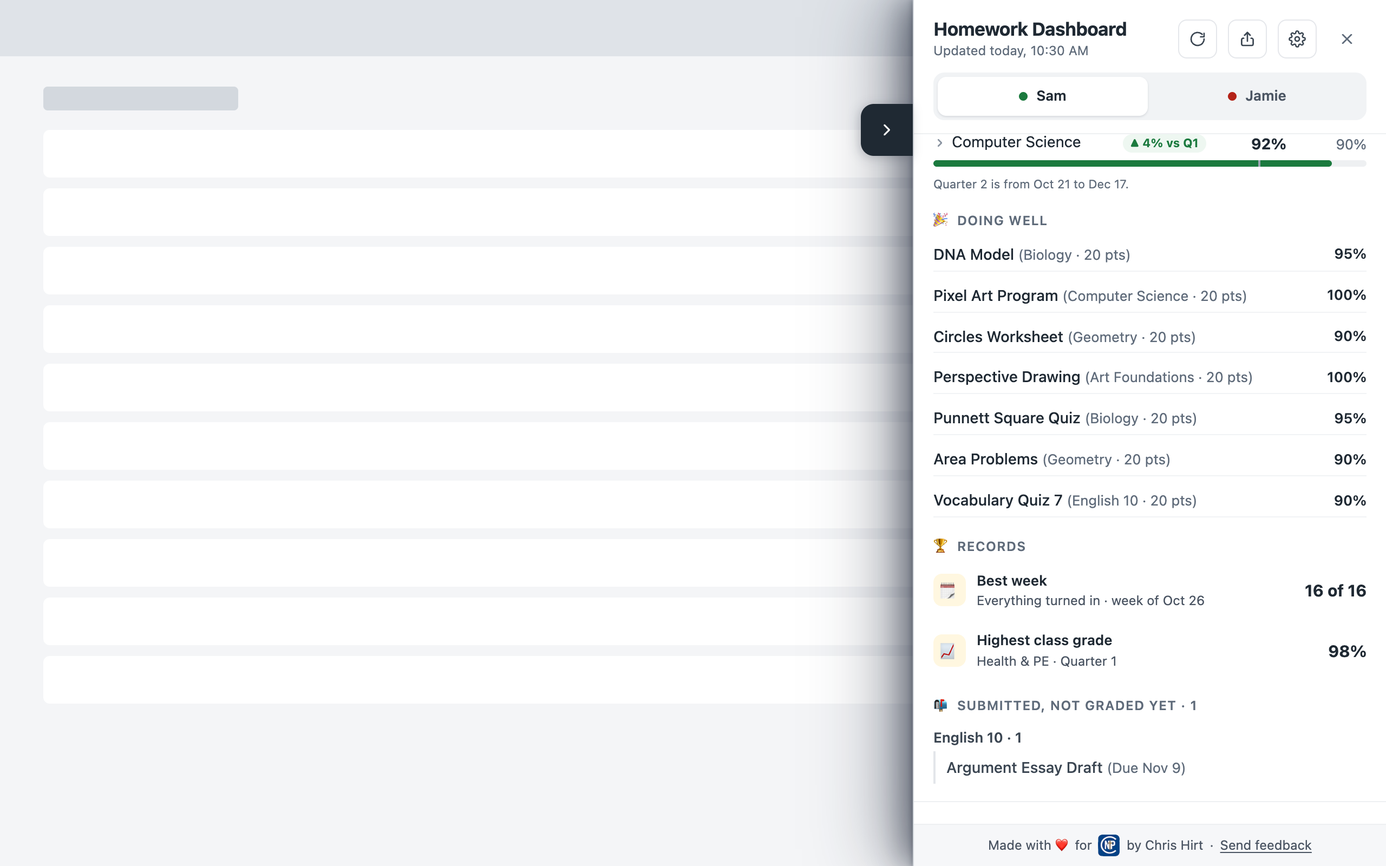
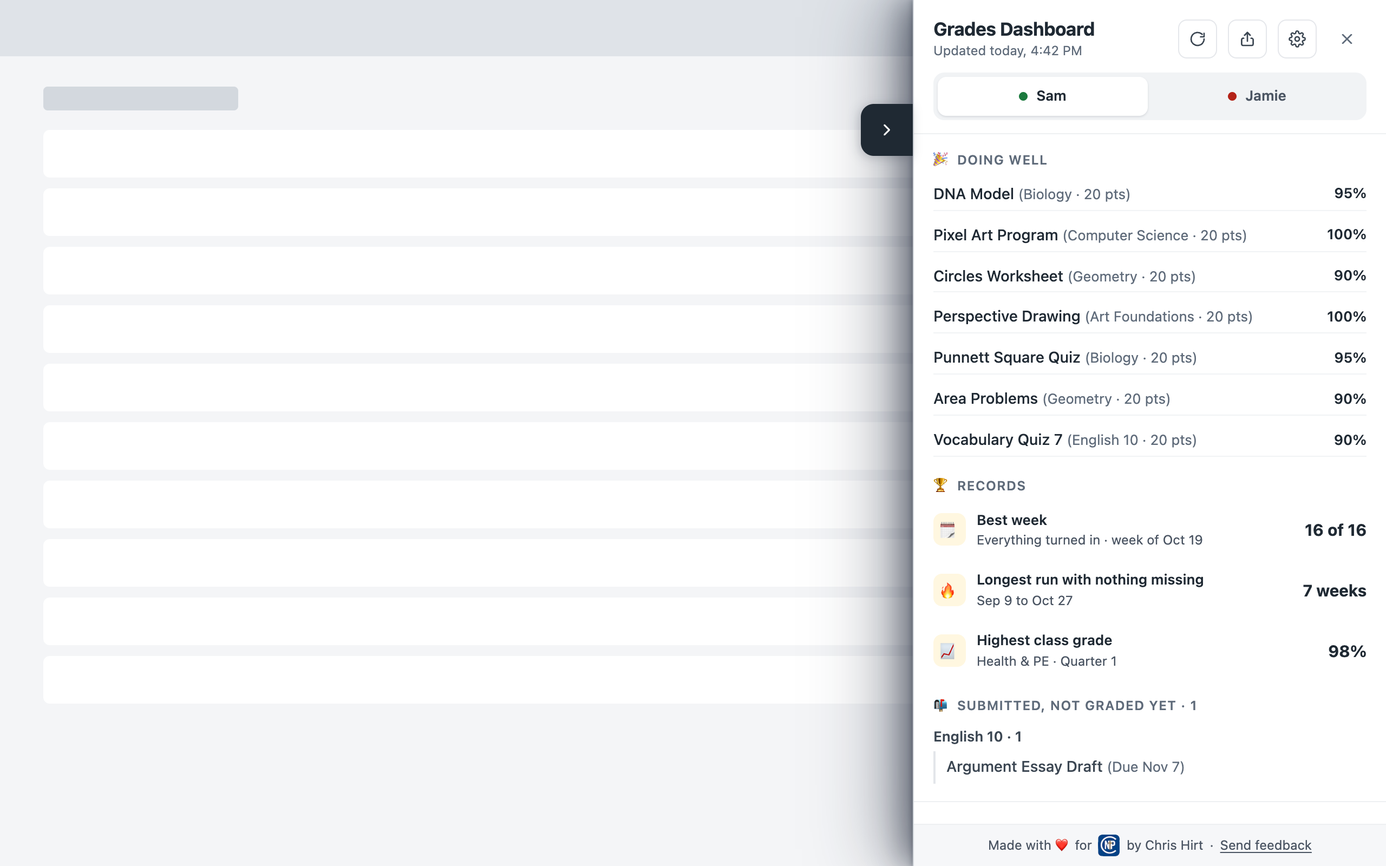
Name the product Grades Dashboard everywhere; pin the site screenshots' date (#77)
* Name the product Grades Dashboard everywhere

Extension: manifest name "Grades Dashboard for Schoology" with
short_name and toolbar title "Grades Dashboard"; the panel heading,
settings page, popup, share image title/filename, feedback subject,
aria labels and console messages say Grades Dashboard. The dev build is
"Grades Dashboard (Dev)". Site pages say Grades Dashboard (for
Schoology). Tests and docs follow.

* Pin the site screenshots to a fixed date; regenerate them as Grades Dashboard

- build.mjs: --fake-now=<date> (dev builds only) starts the extension's
  clock at that date.
- site-screenshots.mjs: builds with the clock pinned to SHOWCASE_NOW
  (Sun 2026-11-08 16:42 local, overridable), passes the same date to the
  showcase data and the daily log, and rebuilds a normal dev build after.
- It also seeds the daily log under the signed-in user's key and
  refreshes again. Since per-user storage (#71) the seeded log was
  ignored, so Records lost its longest-run entry.
- Screenshots regenerated: same content as before, now with the new name.
  The Records alt text drops 'highest score', which moved under each
  class's chart in #66.

---------

diff --git a/site/features.html b/site/features.html
@@ -3,10 +3,10 @@
 <head>
 <meta charset="utf-8">
 <meta name="viewport" content="width=device-width, initial-scale=1">
-<title>Features & research · Homework Dashboard</title>
-<meta name="description" content="Each feature of the Homework Dashboard for Schoology, the research behind it, and what it deliberately avoids.">
-<meta property="og:title" content="Features & research · Homework Dashboard">
-<meta property="og:description" content="Each feature of the Homework Dashboard for Schoology, the research behind it, and what it deliberately avoids.">
+<title>Features & research · Grades Dashboard</title>
+<meta name="description" content="Each feature of the Grades Dashboard for Schoology, the research behind it, and what it deliberately avoids.">
+<meta property="og:title" content="Features & research · Grades Dashboard">
+<meta property="og:description" content="Each feature of the Grades Dashboard for Schoology, the research behind it, and what it deliberately avoids.">
 <meta property="og:image" content="img/phone-parent-sam.png">
 <link rel="icon" href="img/icon.svg" type="image/svg+xml">
 <link rel="stylesheet" href="style.css">
@@ -14,7 +14,7 @@
 </head>
 <body>
 <header class="site-head"><div class="wrap">
-<a class="logo" href="index.html"><img class="mark" src="img/logo.svg" alt="" width="34" height="34">Homework Dashboard</a>
+<a class="logo" href="index.html"><img class="mark" src="img/logo.svg" alt="" width="34" height="34">Grades Dashboard</a>
 <nav class="nav" aria-label="Site"><a href="index.html">Home</a><a href="features.html" aria-current="page">Features & research</a><a href="teachers.html">For teachers</a></nav>
 </div></header>
 <main>
@@ -45,7 +45,7 @@
 <div><h2>Records: personal bests that only go up</h2><p>Highest score, best week, longest run with nothing missing, and highest class grade this school year. Records are saved, so a rough week never takes one away.</p>
 <div class="research"><strong>What the research says</strong><p>Personal-best goals, measured against your own past rather than other people, predict more engagement over time.<sup class="cite"><a href="research.html#r12">[12]</a></sup> Praise works when it's about effort and specific work, not about being smart.<sup class="cite"><a href="research.html#r13">[13]</a></sup></p></div>
 <div class="avoid"><strong>What we avoid, and why</strong><p>There are no points, coins, levels or leaderboards. Rewards tied to finishing tasks can crowd out students' own motivation, more so for children.<sup class="cite"><a href="research.html#r4">[4]</a>,<a href="research.html#r10">[10]</a></sup> In one semester-long study, a course with badges, a leaderboard and coins ended with <em>lower</em> motivation and exam scores.<sup class="cite"><a href="research.html#r14">[14]</a></sup> Dashboards that compare students with each other push competition over learning,<sup class="cite"><a href="research.html#r15">[15]</a></sup> so there's never a ranking, and never a side-by-side of siblings.</p></div></div>
-<div class="feature-media"><div class="panel-crop"><img src="img/records.png" alt="Records: highest score 100%, best week 16 of 16, 7 weeks with nothing missing, highest class grade 98%." loading="lazy" style="width:293%;max-width:none;margin-left:-193%"></div></div>
+<div class="feature-media"><div class="panel-crop"><img src="img/records.png" alt="Records: best week 16 of 16, 7 weeks with nothing missing, highest class grade 98%." loading="lazy" style="width:293%;max-width:none;margin-left:-193%"></div></div>
 </article><article class="feature" id="doing-well">
 <div><h2>Doing well</h2><p>Recent graded work above the family's “doing well” level, so there's always something specific to notice and praise.</p>
 <div class="research"><strong>What the research says</strong><p>Praising effort and specific work builds motivation; praising intelligence undermines it.<sup class="cite"><a href="research.html#r13">[13]</a></sup> Positive, informative feedback raised children's own interest in a task.<sup class="cite"><a href="research.html#r4">[4]</a></sup></p></div>
@@ -63,7 +63,7 @@
 </main>
 <footer class="site-foot"><div class="wrap">
 <div class="cols">
-<div><strong>Homework Dashboard for Schoology</strong><br>A free, open-source browser extension.
+<div><strong>Grades Dashboard for Schoology</strong><br>A free, open-source browser extension.
 <p class="credit">Made with <span role="img" aria-label="love">❤</span> for <img src="img/npc.png" alt="NPC" width="20" height="20"> by Chris Hirt, NPC dad of 3 · <a href="mailto:schoologydashboard@gmail.com?subject=Homework%20Dashboard%20feedback%20(website)">Send feedback</a></p></div>
 <div class="foot-right"><a href="research.html">Research &amp; sources</a> · <a href="privacy.html">Privacy</a> · <a href="schools.html">For schools</a> · <a data-link="source" href="https://github.com/megahirt/schoology-grades-extension">Source code</a>
 <div class="stores" aria-label="Get the extension">

diff --git a/site/index.html b/site/index.html
@@ -3,9 +3,9 @@
 <head>
 <meta charset="utf-8">
 <meta name="viewport" content="width=device-width, initial-scale=1">
-<title>Homework Dashboard for Schoology</title>
+<title>Grades Dashboard for Schoology</title>
 <meta name="description" content="A calm, research-based homework and grades dashboard for Schoology families: what's due, what's missing, and how grades are going.">
-<meta property="og:title" content="Homework Dashboard for Schoology">
+<meta property="og:title" content="Grades Dashboard for Schoology">
 <meta property="og:description" content="A calm, research-based homework and grades dashboard for Schoology families: what's due, what's missing, and how grades are going.">
 <meta property="og:image" content="img/phone-parent-sam.png">
 <link rel="icon" href="img/icon.svg" type="image/svg+xml">
@@ -14,21 +14,21 @@
 </head>
 <body>
 <header class="site-head"><div class="wrap">
-<a class="logo" href="index.html"><img class="mark" src="img/logo.svg" alt="" width="34" height="34">Homework Dashboard</a>
+<a class="logo" href="index.html"><img class="mark" src="img/logo.svg" alt="" width="34" height="34">Grades Dashboard</a>
 <nav class="nav" aria-label="Site"><a href="index.html" aria-current="page">Home</a><a href="features.html">Features & research</a><a href="teachers.html">For teachers</a></nav>
 </div></header>
 <main>
 
 <section class="hero"><div class="wrap">
 <div class="hero-text">
-<div class="eyebrow">Homework Dashboard for Schoology</div>
+<div class="eyebrow">Grades Dashboard for Schoology</div>
 <h1>What's due, what's missing, and how grades are going</h1>
 <p class="lede">A dashboard on top of Schoology for parents and students. It's built on research, and helps parents support students to take ownership of their work.</p>
 <div class="btn-row"><a id="get-it" class="btn primary">Get it</a><a class="btn secondary" href="features.html">See how it works</a></div>
 </div>
 <figure class="hero-shot">
 <div class="browser"><div class="browser-bar" aria-hidden="true"><i></i><i></i><i></i></div>
-<img src="img/desktop-hero.png" width="2880" height="1800" alt="A Schoology course grades page for Sam Rivera's Biology class, with the Homework Dashboard open on the right: 1 missing assignment, what's due today and tomorrow, and every class grade.">
+<img src="img/desktop-hero.png" width="2880" height="1800" alt="A Schoology course grades page for Sam Rivera's Biology class, with the Grades Dashboard open on the right: 1 missing assignment, what's due today and tomorrow, and every class grade.">
 </div>
 <figcaption>The dashboard opens right beside your Schoology pages.</figcaption>
 </figure>
@@ -72,7 +72,7 @@
 </main>
 <footer class="site-foot"><div class="wrap">
 <div class="cols">
-<div><strong>Homework Dashboard for Schoology</strong><br>A free, open-source browser extension.
+<div><strong>Grades Dashboard for Schoology</strong><br>A free, open-source browser extension.
 <p class="credit">Made with <span role="img" aria-label="love">❤</span> for <img src="img/npc.png" alt="NPC" width="20" height="20"> by Chris Hirt, NPC dad of 3 · <a href="mailto:schoologydashboard@gmail.com?subject=Homework%20Dashboard%20feedback%20(website)">Send feedback</a></p></div>
 <div class="foot-right"><a href="research.html">Research &amp; sources</a> · <a href="privacy.html">Privacy</a> · <a href="schools.html">For schools</a> · <a data-link="source" href="https://github.com/megahirt/schoology-grades-extension">Source code</a>
 <div class="stores" aria-label="Get the extension">

diff --git a/site/privacy.html b/site/privacy.html
@@ -3,10 +3,10 @@
 <head>
 <meta charset="utf-8">
 <meta name="viewport" content="width=device-width, initial-scale=1">
-<title>Privacy policy · Homework Dashboard</title>
-<meta name="description" content="Privacy policy for the Homework Dashboard for Schoology browser extension: it collects no data.">
-<meta property="og:title" content="Privacy policy · Homework Dashboard">
-<meta property="og:description" content="Privacy policy for the Homework Dashboard for Schoology browser extension: it collects no data.">
+<title>Privacy policy · Grades Dashboard</title>
+<meta name="description" content="Privacy policy for the Grades Dashboard for Schoology browser extension: it collects no data.">
+<meta property="og:title" content="Privacy policy · Grades Dashboard">
+<meta property="og:description" content="Privacy policy for the Grades Dashboard for Schoology browser extension: it collects no data.">
 <meta property="og:image" content="img/phone-parent-sam.png">
 <link rel="icon" href="img/icon.svg" type="image/svg+xml">
 <link rel="stylesheet" href="style.css">
@@ -14,14 +14,14 @@
 </head>
 <body>
 <header class="site-head"><div class="wrap">
-<a class="logo" href="index.html"><img class="mark" src="img/logo.svg" alt="" width="34" height="34">Homework Dashboard</a>
+<a class="logo" href="index.html"><img class="mark" src="img/logo.svg" alt="" width="34" height="34">Grades Dashboard</a>
 <nav class="nav" aria-label="Site"><a href="index.html">Home</a><a href="features.html">Features & research</a><a href="teachers.html">For teachers</a></nav>
 </div></header>
 <main>
 
 <section class="block"><div class="wrap" style="max-width:780px">
 <div class="eyebrow">Privacy policy</div><h1>Privacy policy</h1>
-<p class="muted">Homework Dashboard for Schoology (the browser extension) · Last updated November 8, 2026</p>
+<p class="muted">Grades Dashboard for Schoology (the browser extension) · Last updated November 8, 2026</p>
 <h2>The short version</h2>
 <p>The extension collects no data. Grades are read from Schoology in your browser and stay in your browser.</p>
 <h2>What the extension reads</h2>
@@ -43,7 +43,7 @@
 </main>
 <footer class="site-foot"><div class="wrap">
 <div class="cols">
-<div><strong>Homework Dashboard for Schoology</strong><br>A free, open-source browser extension.
+<div><strong>Grades Dashboard for Schoology</strong><br>A free, open-source browser extension.
 <p class="credit">Made with <span role="img" aria-label="love">❤</span> for <img src="img/npc.png" alt="NPC" width="20" height="20"> by Chris Hirt, NPC dad of 3 · <a href="mailto:schoologydashboard@gmail.com?subject=Homework%20Dashboard%20feedback%20(website)">Send feedback</a></p></div>
 <div class="foot-right"><a href="research.html">Research &amp; sources</a> · <a href="privacy.html">Privacy</a> · <a href="schools.html">For schools</a> · <a data-link="source" href="https://github.com/megahirt/schoology-grades-extension">Source code</a>
 <div class="stores" aria-label="Get the extension">

diff --git a/test/e2e/extension.spec.js b/test/e2e/extension.spec.js
@@ -1,4 +1,4 @@
-// extension.spec.js — Playwright e2e for the Schoology Dashboard extension.
+// extension.spec.js — Playwright e2e for the Grades Dashboard extension.
 //
 // Launches Chromium with the unpacked DEV build (dist/, produced by
 // `npm run build:dev`), starts the mock Schoology server, points the
@@ -66,7 +66,7 @@ test.afterAll(async () => {
   await mock.close();
 });
 
-test.describe('Schoology Dashboard extension (mock Schoology)', () => {
+test.describe('Grades Dashboard extension (mock Schoology)', () => {
   test.beforeEach(async () => {
     if (isFirefox()) test.skip(!HAS_FIREFOX_BUILD, 'Firefox DEV build (dist-firefox/) not present yet — run `npm run build:firefox` first.');
     else test.skip(!HAS_DEV_BUILD, 'DEV build (dist/) not present yet — run `npm run build:dev` first.');
@@ -244,7 +244,7 @@ test.describe('Schoology Dashboard extension (mock Schoology)', () => {
     await expect(popup.locator('.status')).toHaveText(/Press Share again to send it\.$/);
     await shareBtn.click();
     await expect(popup.locator('.status')).toHaveText(/shared\.$/);
-    expect(await popup.evaluate(() => window.__shared)).toEqual([[expect.stringMatching(/^homework-dashboard-jamie-\d{4}-\d{2}-\d{2}\.png image\/png$/)]]);
+    expect(await popup.evaluate(() => window.__shared)).toEqual([[expect.stringMatching(/^grades-dashboard-jamie-\d{4}-\d{2}-\d{2}\.png image\/png$/)]]);
   }
 
   async function openPopup(context, extensionId) {
@@ -430,7 +430,7 @@ test.describe('Schoology Dashboard extension (mock Schoology)', () => {
 
       const opts = await context.newPage();
       await opts.goto(`chrome-extension://${extensionId}/${OPTIONS_PAGE}`);
-      await expect(opts.getByRole('heading', { name: 'Homework Dashboard settings' })).toBeVisible();
+      await expect(opts.getByRole('heading', { name: 'Grades Dashboard settings' })).toBeVisible();
       await expect(opts.locator('#account-title')).toHaveText('Connected as a student');
       for (const name of ['Account', 'Display', 'Privacy & data']) {
         await expect(opts.getByRole('heading', { name, exact: true })).toBeVisible();
@@ -516,7 +516,7 @@ test.describe('Schoology Dashboard extension (mock Schoology)', () => {
       await expect(tab).toHaveAttribute('aria-expanded', 'false', { timeout: 15000 });
       await expect(panel).toBeHidden();
       // A student's closed tab shows the counts but no verdict (GO/NO-GO is for parents).
-      await expect(tab).toHaveAttribute('aria-label', /^Show homework dashboard\. Alex Student: 1 missing/);
+      await expect(tab).toHaveAttribute('aria-label', /^Show grades dashboard\. Alex Student: 1 missing/);
       await expect(tab).not.toHaveAttribute('aria-label', /NO-GO/);
       await expect(tab.locator('.kid-pic')).toHaveCount(1);
       await expect(tab.locator('.kid-m').first()).toHaveText('1'); // Schoology Missing icon + 1

diff --git a/extension/options/options.html b/extension/options/options.html
@@ -3,7 +3,7 @@
 <head>
 <meta charset="utf-8">
 <meta name="viewport" content="width=device-width, initial-scale=1">
-<title>Homework Dashboard settings</title>
+<title>Grades Dashboard settings</title>
 <link rel="stylesheet" href="options.css">
 </head>
 <body>
@@ -13,7 +13,7 @@
       <svg width="18" height="18" viewBox="0 0 24 24" fill="none" stroke="currentColor" stroke-width="2" stroke-linecap="round" stroke-linejoin="round"><circle cx="12" cy="12" r="3"/><path d="M19.4 15a1.65 1.65 0 0 0 .33 1.82l.06.06a2 2 0 1 1-2.83 2.83l-.06-.06a1.65 1.65 0 0 0-1.82-.33 1.65 1.65 0 0 0-1 1.51V21a2 2 0 1 1-4 0v-.09A1.65 1.65 0 0 0 9 19.4a1.65 1.65 0 0 0-1.82.33l-.06.06a2 2 0 1 1-2.83-2.83l.06-.06a1.65 1.65 0 0 0 .33-1.82 1.65 1.65 0 0 0-1.51-1H3a2 2 0 1 1 0-4h.09A1.65 1.65 0 0 0 4.6 9a1.65 1.65 0 0 0-.33-1.82l-.06-.06a2 2 0 1 1 2.83-2.83l.06.06a1.65 1.65 0 0 0 1.82.33H9a1.65 1.65 0 0 0 1-1.51V3a2 2 0 1 1 4 0v.09a1.65 1.65 0 0 0 1 1.51 1.65 1.65 0 0 0 1.82-.33l.06-.06a2 2 0 1 1 2.83 2.83l-.06.06a1.65 1.65 0 0 0-.33 1.82V9a1.65 1.65 0 0 0 1.51 1H21a2 2 0 1 1 0 4h-.09a1.65 1.65 0 0 0-1.51 1z"/></svg>
     </div>
     <div class="grow">
-      <h1>Homework Dashboard settings</h1>
+      <h1>Grades Dashboard settings</h1>
       <p class="muted">Everything here is saved in this browser only.</p>
     </div>
     <div id="save-state" class="save-state" role="status" aria-live="polite">
@@ -52,7 +52,7 @@
     <section id="school" class="card">
       <div class="card-h">
         <h2>School address</h2>
-        <p class="muted">Schoology Dashboard works on app.schoology.com and every address ending in .schoology.com. Some schools sign students in at their own address, such as schoology.yourschool.org. If yours does, add it here. Your browser will ask to let the extension read that one site.</p>
+        <p class="muted">Grades Dashboard works on app.schoology.com and every address ending in .schoology.com. Some schools sign students in at their own address, such as schoology.yourschool.org. If yours does, add it here. Your browser will ask to let the extension read that one site.</p>
       </div>
       <form id="school-form" class="row" novalidate>
         <div class="grow">
@@ -67,7 +67,7 @@
       <datalist id="school-list"></datalist>
       <p id="school-status" class="muted" role="status"></p>
       <div id="school-added" class="school-added"></div>
-      <p id="school-unsupported" class="muted" hidden>This browser can't add other addresses yet. Schoology Dashboard works on addresses ending in .schoology.com and schoology.npchristian.org.</p>
+      <p id="school-unsupported" class="muted" hidden>This browser can't add other addresses yet. Grades Dashboard works on addresses ending in .schoology.com and schoology.npchristian.org.</p>
     </section>
 
     <section id="rules" class="card" hidden>

diff --git a/site/schools.html b/site/schools.html
@@ -3,10 +3,10 @@
 <head>
 <meta charset="utf-8">
 <meta name="viewport" content="width=device-width, initial-scale=1">
-<title>For schools and IT · Homework Dashboard</title>
-<meta name="description" content="Data handling and security details of the Homework Dashboard extension for school IT teams and administrators.">
-<meta property="og:title" content="For schools and IT · Homework Dashboard">
-<meta property="og:description" content="Data handling and security details of the Homework Dashboard extension for school IT teams and administrators.">
+<title>For schools and IT · Grades Dashboard</title>
+<meta name="description" content="Data handling and security details of the Grades Dashboard extension for school IT teams and administrators.">
+<meta property="og:title" content="For schools and IT · Grades Dashboard">
+<meta property="og:description" content="Data handling and security details of the Grades Dashboard extension for school IT teams and administrators.">
 <meta property="og:image" content="img/phone-parent-sam.png">
 <link rel="icon" href="img/icon.svg" type="image/svg+xml">
 <link rel="stylesheet" href="style.css">
@@ -14,7 +14,7 @@
 </head>
 <body>
 <header class="site-head"><div class="wrap">
-<a class="logo" href="index.html"><img class="mark" src="img/logo.svg" alt="" width="34" height="34">Homework Dashboard</a>
+<a class="logo" href="index.html"><img class="mark" src="img/logo.svg" alt="" width="34" height="34">Grades Dashboard</a>
 <nav class="nav" aria-label="Site"><a href="index.html">Home</a><a href="features.html">Features & research</a><a href="teachers.html">For teachers</a></nav>
 </div></header>
 <main>
@@ -58,7 +58,7 @@
 </main>
 <footer class="site-foot"><div class="wrap">
 <div class="cols">
-<div><strong>Homework Dashboard for Schoology</strong><br>A free, open-source browser extension.
+<div><strong>Grades Dashboard for Schoology</strong><br>A free, open-source browser extension.
 <p class="credit">Made with <span role="img" aria-label="love">❤</span> for <img src="img/npc.png" alt="NPC" width="20" height="20"> by Chris Hirt, NPC dad of 3 · <a href="mailto:schoologydashboard@gmail.com?subject=Homework%20Dashboard%20feedback%20(website)">Send feedback</a></p></div>
 <div class="foot-right"><a href="research.html">Research &amp; sources</a> · <a href="privacy.html">Privacy</a> · <a href="schools.html">For schools</a> · <a data-link="source" href="https://github.com/megahirt/schoology-grades-extension">Source code</a>
 <div class="stores" aria-label="Get the extension">

diff --git a/site/research.html b/site/research.html
@@ -3,10 +3,10 @@
 <head>
 <meta charset="utf-8">
 <meta name="viewport" content="width=device-width, initial-scale=1">
-<title>Research & sources · Homework Dashboard</title>
-<meta name="description" content="The published studies behind each feature of the Homework Dashboard for Schoology, with DOIs.">
-<meta property="og:title" content="Research & sources · Homework Dashboard">
-<meta property="og:description" content="The published studies behind each feature of the Homework Dashboard for Schoology, with DOIs.">
+<title>Research & sources · Grades Dashboard</title>
+<meta name="description" content="The published studies behind each feature of the Grades Dashboard for Schoology, with DOIs.">
+<meta property="og:title" content="Research & sources · Grades Dashboard">
+<meta property="og:description" content="The published studies behind each feature of the Grades Dashboard for Schoology, with DOIs.">
 <meta property="og:image" content="img/phone-parent-sam.png">
 <link rel="icon" href="img/icon.svg" type="image/svg+xml">
 <link rel="stylesheet" href="style.css">
@@ -14,7 +14,7 @@
 </head>
 <body>
 <header class="site-head"><div class="wrap">
-<a class="logo" href="index.html"><img class="mark" src="img/logo.svg" alt="" width="34" height="34">Homework Dashboard</a>
+<a class="logo" href="index.html"><img class="mark" src="img/logo.svg" alt="" width="34" height="34">Grades Dashboard</a>
 <nav class="nav" aria-label="Site"><a href="index.html">Home</a><a href="features.html">Features & research</a><a href="teachers.html">For teachers</a></nav>
 </div></header>
 <main>
@@ -29,7 +29,7 @@
 </main>
 <footer class="site-foot"><div class="wrap">
 <div class="cols">
-<div><strong>Homework Dashboard for Schoology</strong><br>A free, open-source browser extension.
+<div><strong>Grades Dashboard for Schoology</strong><br>A free, open-source browser extension.
 <p class="credit">Made with <span role="img" aria-label="love">❤</span> for <img src="img/npc.png" alt="NPC" width="20" height="20"> by Chris Hirt, NPC dad of 3 · <a href="mailto:schoologydashboard@gmail.com?subject=Homework%20Dashboard%20feedback%20(website)">Send feedback</a></p></div>
 <div class="foot-right"><a href="research.html">Research &amp; sources</a> · <a href="privacy.html">Privacy</a> · <a href="schools.html">For schools</a> · <a data-link="source" href="https://github.com/megahirt/schoology-grades-extension">Source code</a>
 <div class="stores" aria-label="Get the extension">

diff --git a/site/teachers.html b/site/teachers.html
@@ -3,10 +3,10 @@
 <head>
 <meta charset="utf-8">
 <meta name="viewport" content="width=device-width, initial-scale=1">
-<title>For teachers · Homework Dashboard</title>
-<meta name="description" content="What families see in the Homework Dashboard for Schoology, and what it means for teachers.">
-<meta property="og:title" content="For teachers · Homework Dashboard">
-<meta property="og:description" content="What families see in the Homework Dashboard for Schoology, and what it means for teachers.">
+<title>For teachers · Grades Dashboard</title>
+<meta name="description" content="What families see in the Grades Dashboard for Schoology, and what it means for teachers.">
+<meta property="og:title" content="For teachers · Grades Dashboard">
+<meta property="og:description" content="What families see in the Grades Dashboard for Schoology, and what it means for teachers.">
 <meta property="og:image" content="img/phone-parent-sam.png">
 <link rel="icon" href="img/icon.svg" type="image/svg+xml">
 <link rel="stylesheet" href="style.css">
@@ -14,7 +14,7 @@
 </head>
 <body>
 <header class="site-head"><div class="wrap">
-<a class="logo" href="index.html"><img class="mark" src="img/logo.svg" alt="" width="34" height="34">Homework Dashboard</a>
+<a class="logo" href="index.html"><img class="mark" src="img/logo.svg" alt="" width="34" height="34">Grades Dashboard</a>
 <nav class="nav" aria-label="Site"><a href="index.html">Home</a><a href="features.html">Features & research</a><a href="teachers.html" aria-current="page">For teachers</a></nav>
 </div></header>
 <main>
@@ -35,7 +35,7 @@
 </main>
 <footer class="site-foot"><div class="wrap">
 <div class="cols">
-<div><strong>Homework Dashboard for Schoology</strong><br>A free, open-source browser extension.
+<div><strong>Grades Dashboard for Schoology</strong><br>A free, open-source browser extension.
 <p class="credit">Made with <span role="img" aria-label="love">❤</span> for <img src="img/npc.png" alt="NPC" width="20" height="20"> by Chris Hirt, NPC dad of 3 · <a href="mailto:schoologydashboard@gmail.com?subject=Homework%20Dashboard%20feedback%20(website)">Send feedback</a></p></div>
 <div class="foot-right"><a href="research.html">Research &amp; sources</a> · <a href="privacy.html">Privacy</a> · <a href="schools.html">For schools</a> · <a data-link="source" href="https://github.com/megahirt/schoology-grades-extension">Source code</a>
 <div class="stores" aria-label="Get the extension">

diff --git a/extension/src/dashboard-view.js b/extension/src/dashboard-view.js
@@ -549,7 +549,7 @@ export function feedbackHref(browser) {
   try { version = browser.runtime.getManifest().version || ''; } catch { version = ''; }
   const ua = (globalThis.navigator && navigator.userAgent) || '';
   const name = /Edg\//.test(ua) ? 'Edge' : /Firefox\//.test(ua) ? 'Firefox' : /Chrome\//.test(ua) ? 'Chrome' : /Safari\//.test(ua) ? 'Safari' : 'browser';
-  const subject = `Homework Dashboard feedback (${['v' + version, name].filter((x) => x && x !== 'v').join(', ')})`;
+  const subject = `Grades Dashboard feedback (${['v' + version, name].filter((x) => x && x !== 'v').join(', ')})`;
   return `mailto:${FEEDBACK_EMAIL}?subject=${encodeURIComponent(subject)}`;
 }
 
@@ -870,7 +870,7 @@ export function mountDashboard(container, { browser, showDemo = true, openOption
     }
     const stale = latest && Date.now() - new Date(latest).getTime() > STALE_MS;
     const heading = isParentView || !current
-      ? '<h1 class="title">Homework Dashboard</h1>'
+      ? '<h1 class="title">Grades Dashboard</h1>'
       : `<h1 class="title">Hi, ${escapeHtml(firstName(current.studentName))}</h1>`;
 
     let header = `<header class="head">${siteSwitch ? await siteSwitchHtml() : ''}<div class="head-row"><div class="grow">${heading}` +
@@ -991,8 +991,8 @@ export function mountDashboard(container, { browser, showDemo = true, openOption
     const date = `${day.getFullYear()}-${pad(day.getMonth() + 1)}-${pad(day.getDate())}`;
     const slug = first.toLowerCase().replace(/[^a-z0-9]+/g, '-').replace(/^-|-$/g, '');
     return {
-      fileName: `homework-dashboard${slug ? `-${slug}` : ''}-${date}.png`,
-      title: first ? `Homework Dashboard: ${first}` : 'Homework Dashboard',
+      fileName: `grades-dashboard${slug ? `-${slug}` : ''}-${date}.png`,
+      title: first ? `Grades Dashboard: ${first}` : 'Grades Dashboard',
     };
   }
 

diff --git a/test/mock-server/server.js b/test/mock-server/server.js
@@ -196,8 +196,9 @@ const parentHref = (child, c) => (item) => `/course/${c.id}/preview/${child.uid}
 // dataset: 'test' (the personas above, used by the tests) or 'showcase'
 // (./showcase.js: richer data with dates relative to today, for the promo
 // site screenshots; MOCK_DATA env when run directly).
-export function createServer({ delayMs = 0, dataset = 'test' } = {}) {
-  const showcase = dataset === 'showcase' ? buildShowcase() : null;
+// now: the showcase's "today" (ms); defaults to the real time.
+export function createServer({ delayMs = 0, dataset = 'test', now = Date.now() } = {}) {
+  const showcase = dataset === 'showcase' ? buildShowcase(now) : null;
   const STUDENT_DATA_ALL = showcase ? showcase.student : STUDENT;
   const PARENT_DATA = showcase ? showcase.parent : PARENT;
   const adminsOf = showcase ? showcase.admins : courseAdmins;
@@ -329,8 +330,8 @@ export function createServer({ delayMs = 0, dataset = 'test' } = {}) {
   });
 }
 
-export function startServer(port = DEFAULT_PORT, { delayMs = 0, dataset = 'test' } = {}) {
-  const server = createServer({ delayMs, dataset });
+export function startServer(port = DEFAULT_PORT, { delayMs = 0, dataset = 'test', now } = {}) {
+  const server = createServer({ delayMs, dataset, ...(now === undefined ? {} : { now }) });
   return new Promise((resolve) => {
     server.listen(port, '127.0.0.1', () => {
       const address = server.address();

diff --git a/extension/src/panel.js b/extension/src/panel.js
@@ -169,7 +169,7 @@ export function mountPanel({ document, browser, open = false, onOpenChange } = {
     '<button class="edge-tab" type="button" aria-expanded="false"></button>' +
     '<div class="notice" role="status" hidden><span class="notice-text">This page loaded while the dashboard was switching between your children, so it may show the wrong child.</span>' +
     '<button class="reload" type="button">Reload page</button><button class="dismiss" type="button" aria-label="Dismiss">×</button></div>' +
-    '<div class="wrap"><aside class="sheet" aria-label="Homework dashboard">' +
+    '<div class="wrap"><aside class="sheet" aria-label="Grades dashboard">' +
     '<div class="grip" aria-hidden="true"></div><div class="body-host"></div></aside></div>';
   document.documentElement.append(host);
 
@@ -212,8 +212,8 @@ export function mountPanel({ document, browser, open = false, onOpenChange } = {
       return `${k.name}${bits.length ? `: ${bits.join(', ')}` : ''}`;
     }).join('. ');
     tab.setAttribute('aria-label', isOpen
-      ? 'Hide homework dashboard'
-      : `Show homework dashboard${parts ? `. ${parts}.` : ''}`);
+      ? 'Hide grades dashboard'
+      : `Show grades dashboard${parts ? `. ${parts}.` : ''}`);
     tab.classList.toggle('open', isOpen);
     const html = kids.map((k) => {
       const pic = k.nogo ? noGoCircle('kid-pic nogo-circle') : k.pictureUrl

diff --git a/extension/popup/popup.html b/extension/popup/popup.html
@@ -2,10 +2,10 @@
 <html lang="en">
 <head>
 <meta charset="utf-8">
-<title>Schoology Dashboard</title>
+<title>Grades Dashboard</title>
 <style>
   body { width: 460px; margin: 0; background: #fff; }
-  /* "Use Schoology Dashboard here", on a school's own Schoology address. */
+  /* "Use Grades Dashboard here", on a school's own Schoology address. */
   .school-offer { margin: 12px 12px 0; padding: 12px 14px; border: 1px solid #c7d7fb; border-radius: 12px; background: #f3f7ff;
     font: 13px/1.4 Inter, -apple-system, BlinkMacSystemFont, "Segoe UI", system-ui, sans-serif; color: #111827; }
   .school-offer[hidden] { display: none; }
@@ -20,7 +20,7 @@
 <body>
 <div id="school-offer" class="school-offer" role="region" aria-label="Use on this school's address" hidden>
   <p id="school-offer-text"></p>
-  <button id="school-offer-btn" type="button">Use Schoology Dashboard here</button>
+  <button id="school-offer-btn" type="button">Use Grades Dashboard here</button>
   <p id="school-offer-note" class="muted">Your browser will ask to let the extension read this one site. Nothing leaves your browser.</p>
 </div>
 <div id="dashboard"></div>
